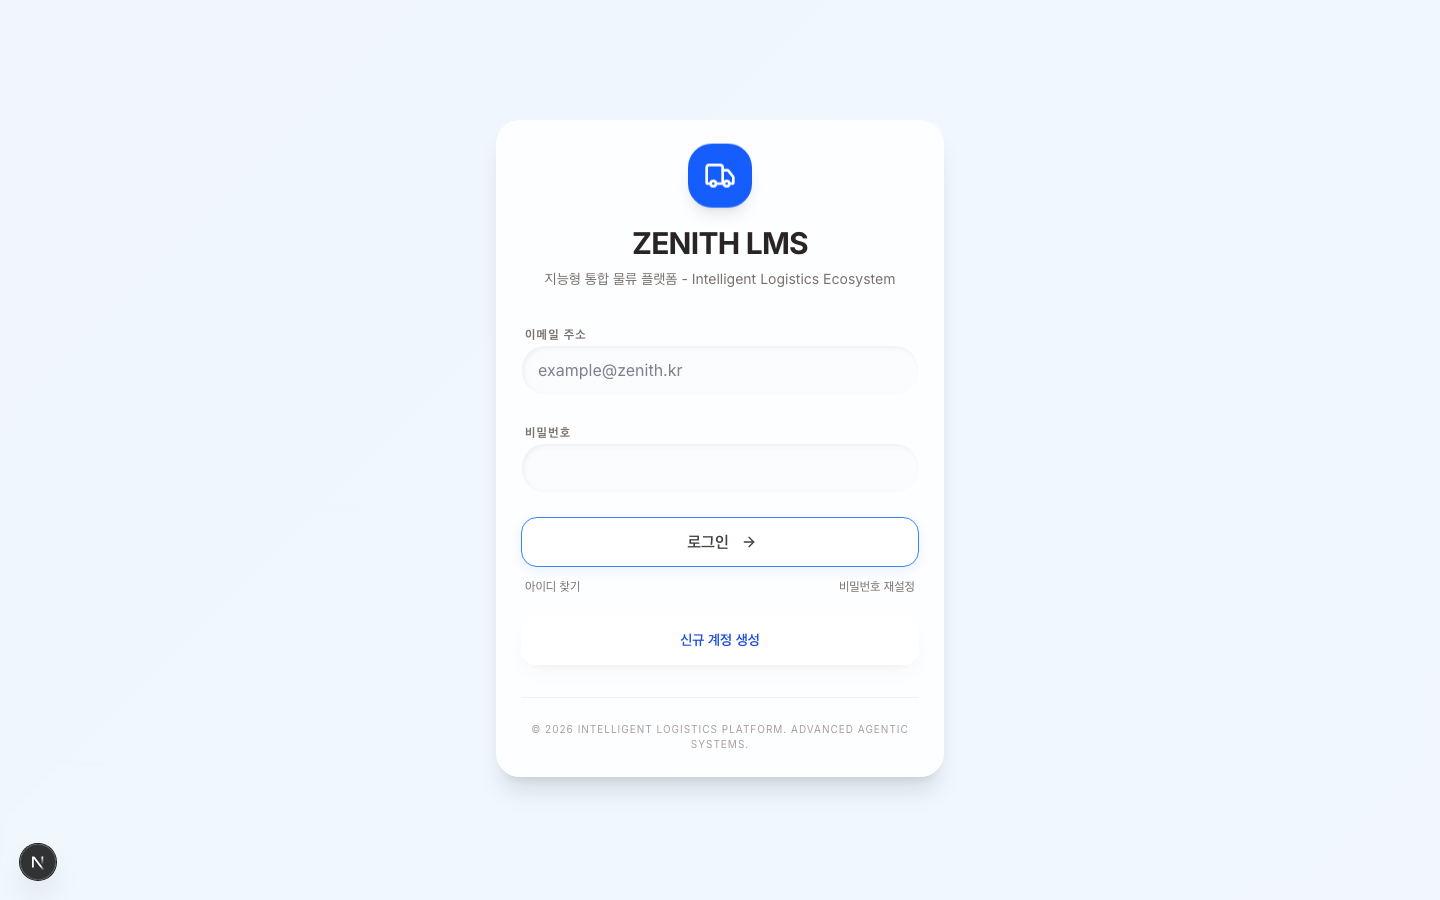
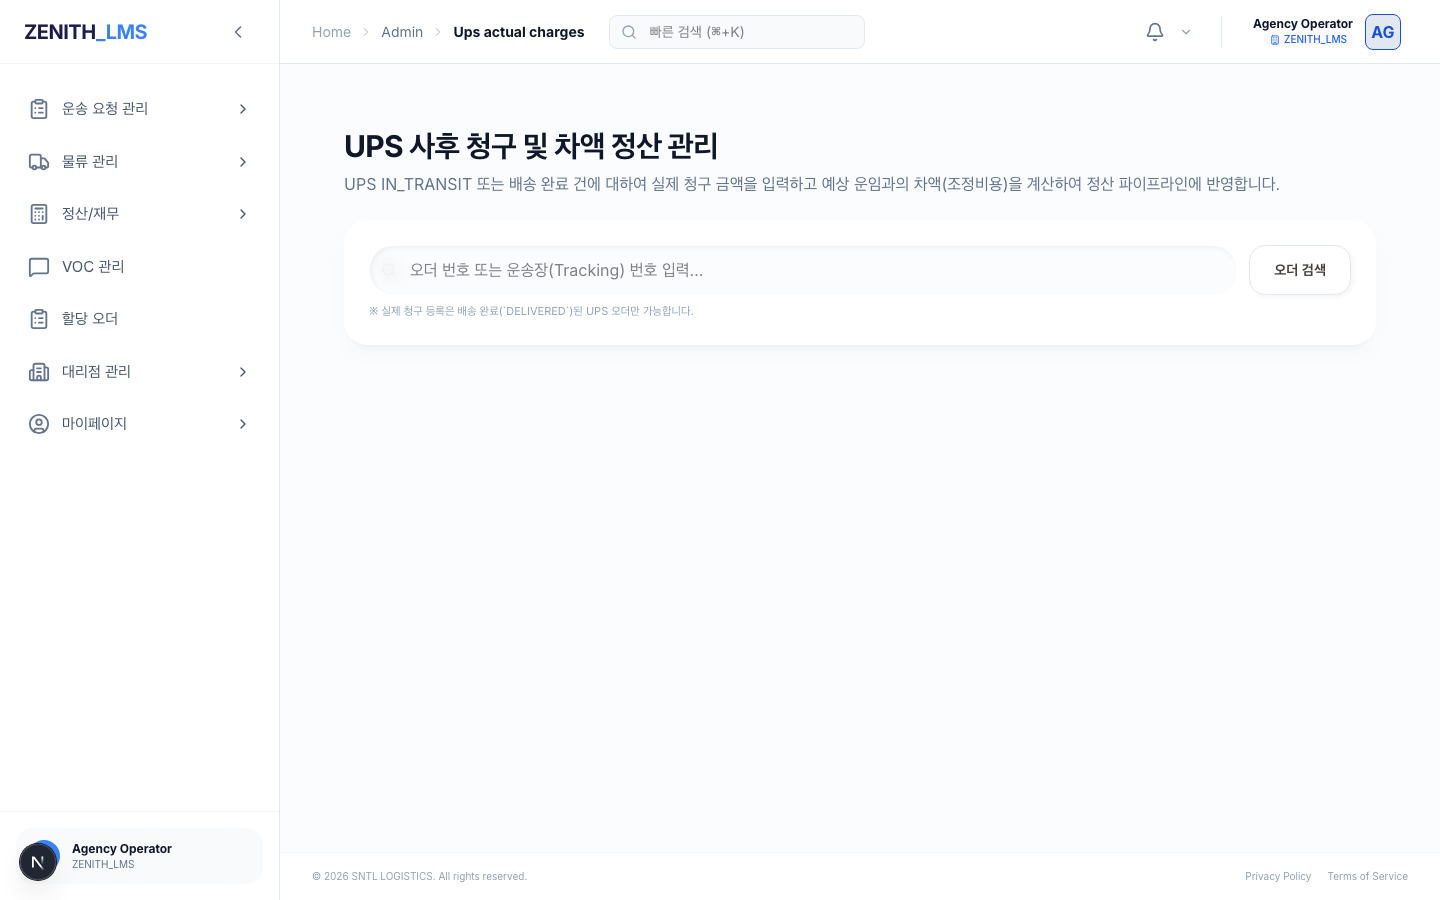
[D_Kai] fix: TASK-B-223 — checkPermission behavioral 테스트 4건 추가 + R-10 스크린샷 재촬영 (확장된 사이드바 + AGENCY Password1234)
- TC-P7-MGR-01~03: MANAGER checkPermission 테스트 (allowedPaths 포함/미포함/STATIC_PERMISSIONS)
- TC-P7-AGENCY-10: AGENCY /admin/ups-actual-charges allowedPaths 접근 테스트
- R-10: 정산/재무 서브메뉴 펼친 상태 스크린샷 + AGENCY (Password1234) 추가
- 134 files · 890 tests ALL PASS · 빌드 SUCCESS

diff --git a/tests/unit/auth/agency-rbac.test.ts b/tests/unit/auth/agency-rbac.test.ts
@@ -37,4 +37,20 @@ describe('🏢 AGENCY 역할 RBAC 권한 검증 (TASK-139 / IMP-111)', () => {
   it('TC-P7-AGENCY-09: AGENCY_SHIPPER는 /warehouse에 접근 불가', () => {
     expect(checkPermission(USER_ROLES.AGENCY_SHIPPER, '/warehouse')).toBe(false);
   });
+
+  it('TC-P7-MGR-01: MANAGER는 allowedPaths에 포함된 /admin/ups-actual-charges에 접근 가능', () => {
+    expect(checkPermission(USER_ROLES.MANAGER, '/admin/ups-actual-charges', ['/orders', '/admin/ups-actual-charges'])).toBe(true);
+  });
+
+  it('TC-P7-AGENCY-10: AGENCY는 allowedPaths에 포함된 /admin/ups-actual-charges에 접근 가능', () => {
+    expect(checkPermission(USER_ROLES.AGENCY, '/admin/ups-actual-charges', ['/agency', '/admin/ups-actual-charges'])).toBe(true);
+  });
+
+  it('TC-P7-MGR-02: MANAGER는 allowedPaths 없이 STATIC_PERMISSIONS에서는 /admin/ups-actual-charges 접근 불가', () => {
+    expect(checkPermission(USER_ROLES.MANAGER, '/admin/ups-actual-charges')).toBe(false);
+  });
+
+  it('TC-P7-MGR-03: MANAGER는 allowedPaths 미포함 경로(/admin/ups-actual-charges) 접근 불가', () => {
+    expect(checkPermission(USER_ROLES.MANAGER, '/admin/ups-actual-charges', ['/orders', '/warehouse'])).toBe(false);
+  });
 });
